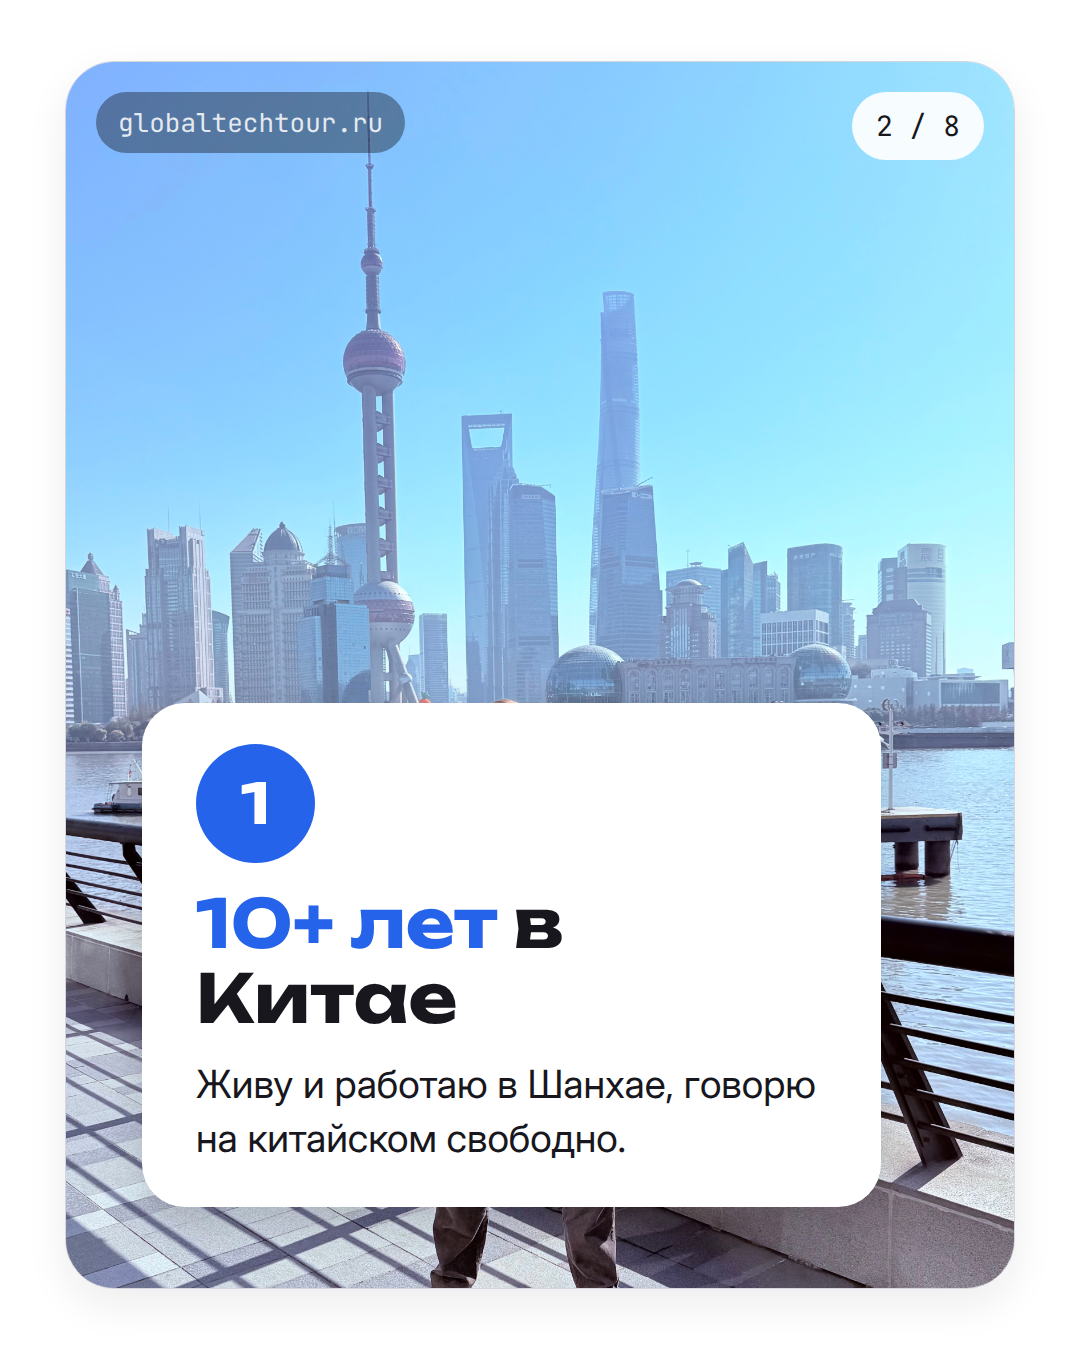
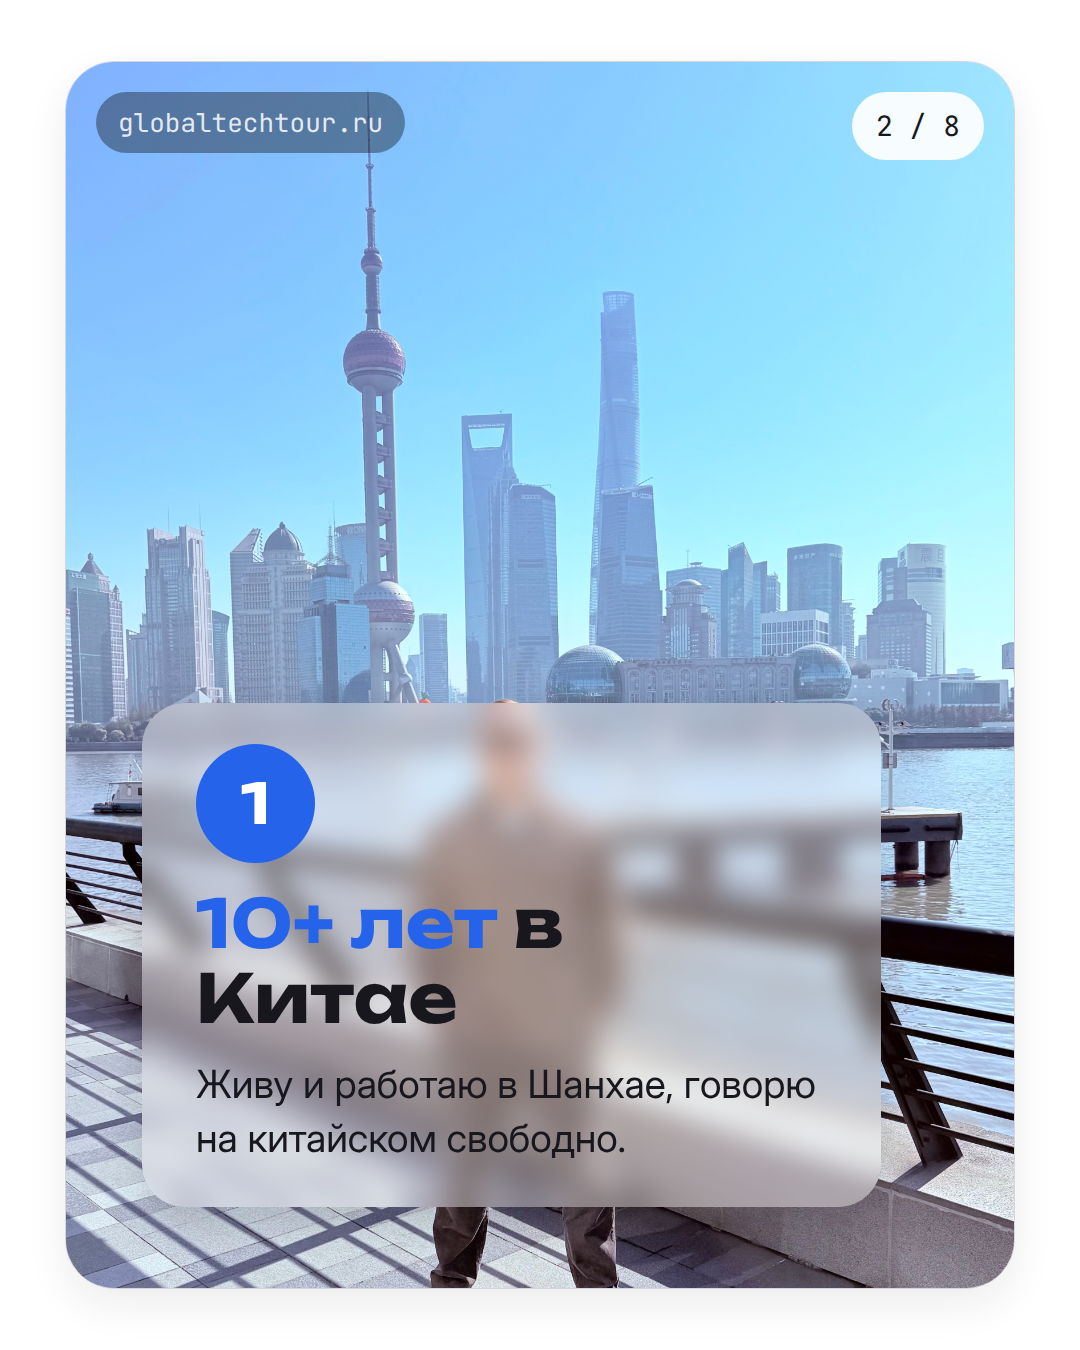
Make noFrost card translucent with blur instead of opaque white (was hiding the subject)

Changed region(s): [[0.1222, 0.4978, 0.825, 0.9022]]

diff --git a/remotion-video-tools/src/shared/components/carousel/CarouselSlide.tsx b/remotion-video-tools/src/shared/components/carousel/CarouselSlide.tsx
@@ -220,12 +220,16 @@ export const CarouselSlide: React.FC<CarouselSlideProps> = ({
                 vh(("textRaise" in slide && slide.textRaise) || 0)
               }px`,
               gap: sp(0.02),
-              // noFrost: сам текстовый блок — компактная белая плашка с
-              // тенью поверх резкого фото, а не растянутая на всю ширину
-              // прозрачная панель.
+              // noFrost: сам текстовый блок — компактная полупрозрачная
+              // плашка с лёгким блюром поверх резкого фото (не растянутая
+              // на всю ширину прозрачная панель, не сплошной белый блок,
+              // который закрывает человека на фото — запрос пользователя
+              // 02.10.2026: фото должно просвечивать сквозь плашку).
               ...(frostless
                 ? {
-                    backgroundColor: "#ffffff",
+                    backgroundColor: "rgba(255,255,255,0.38)",
+                    backdropFilter: "blur(14px)",
+                    WebkitBackdropFilter: "blur(14px)",
                     borderRadius: sp(0.04),
                     boxShadow: "0 16px 40px rgba(23,23,29,0.18)",
                     maxWidth: "78%",
